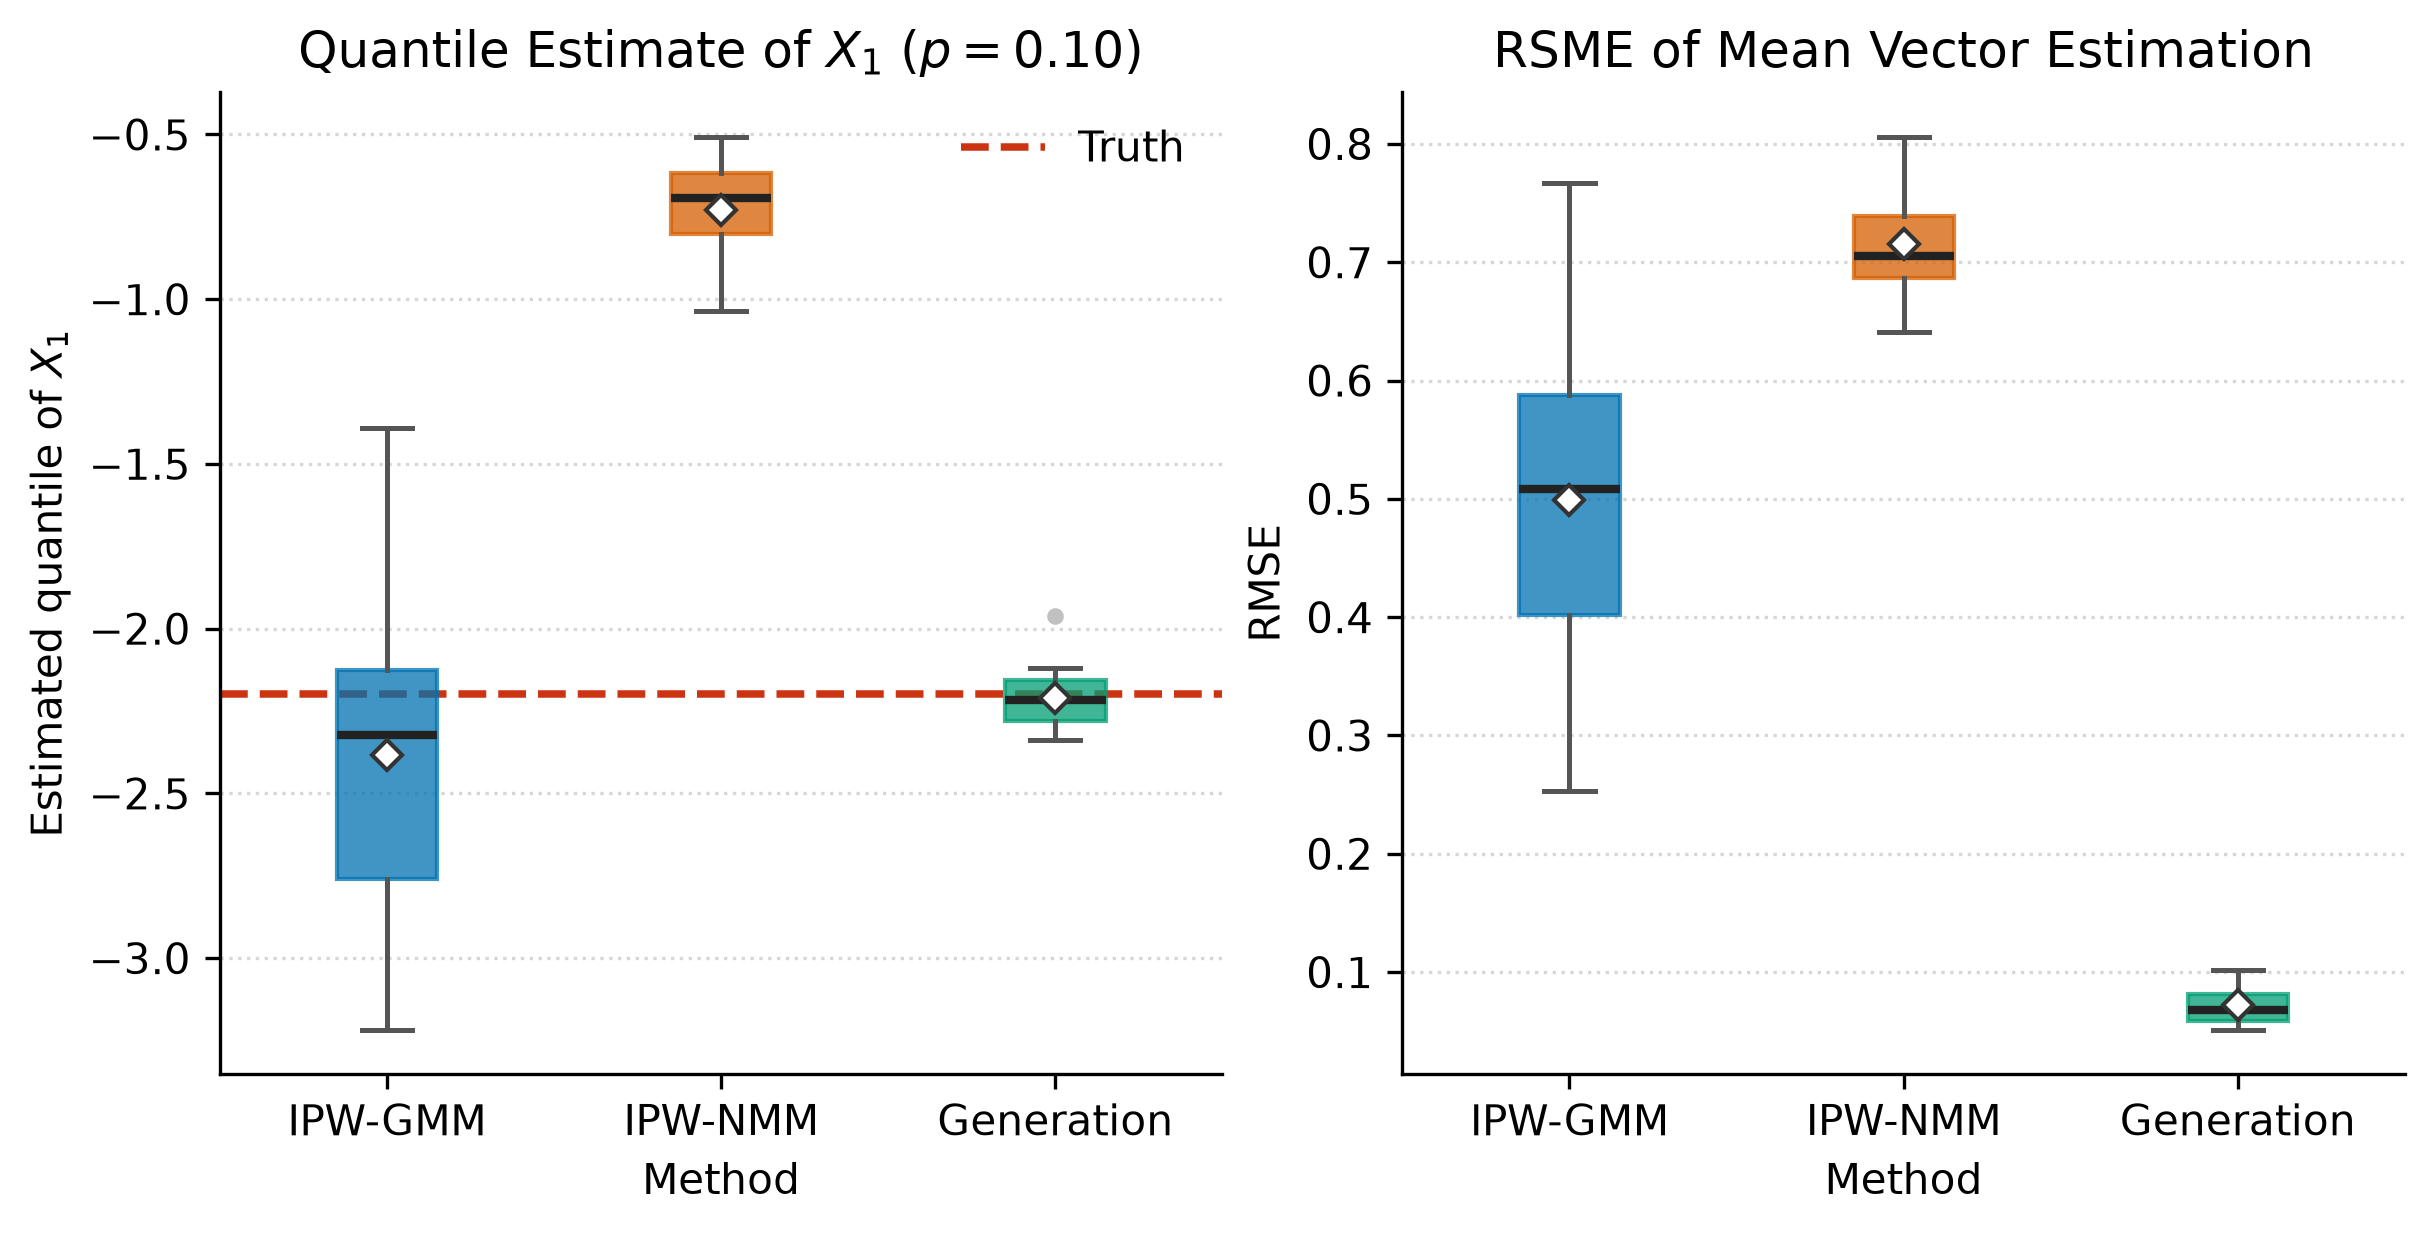
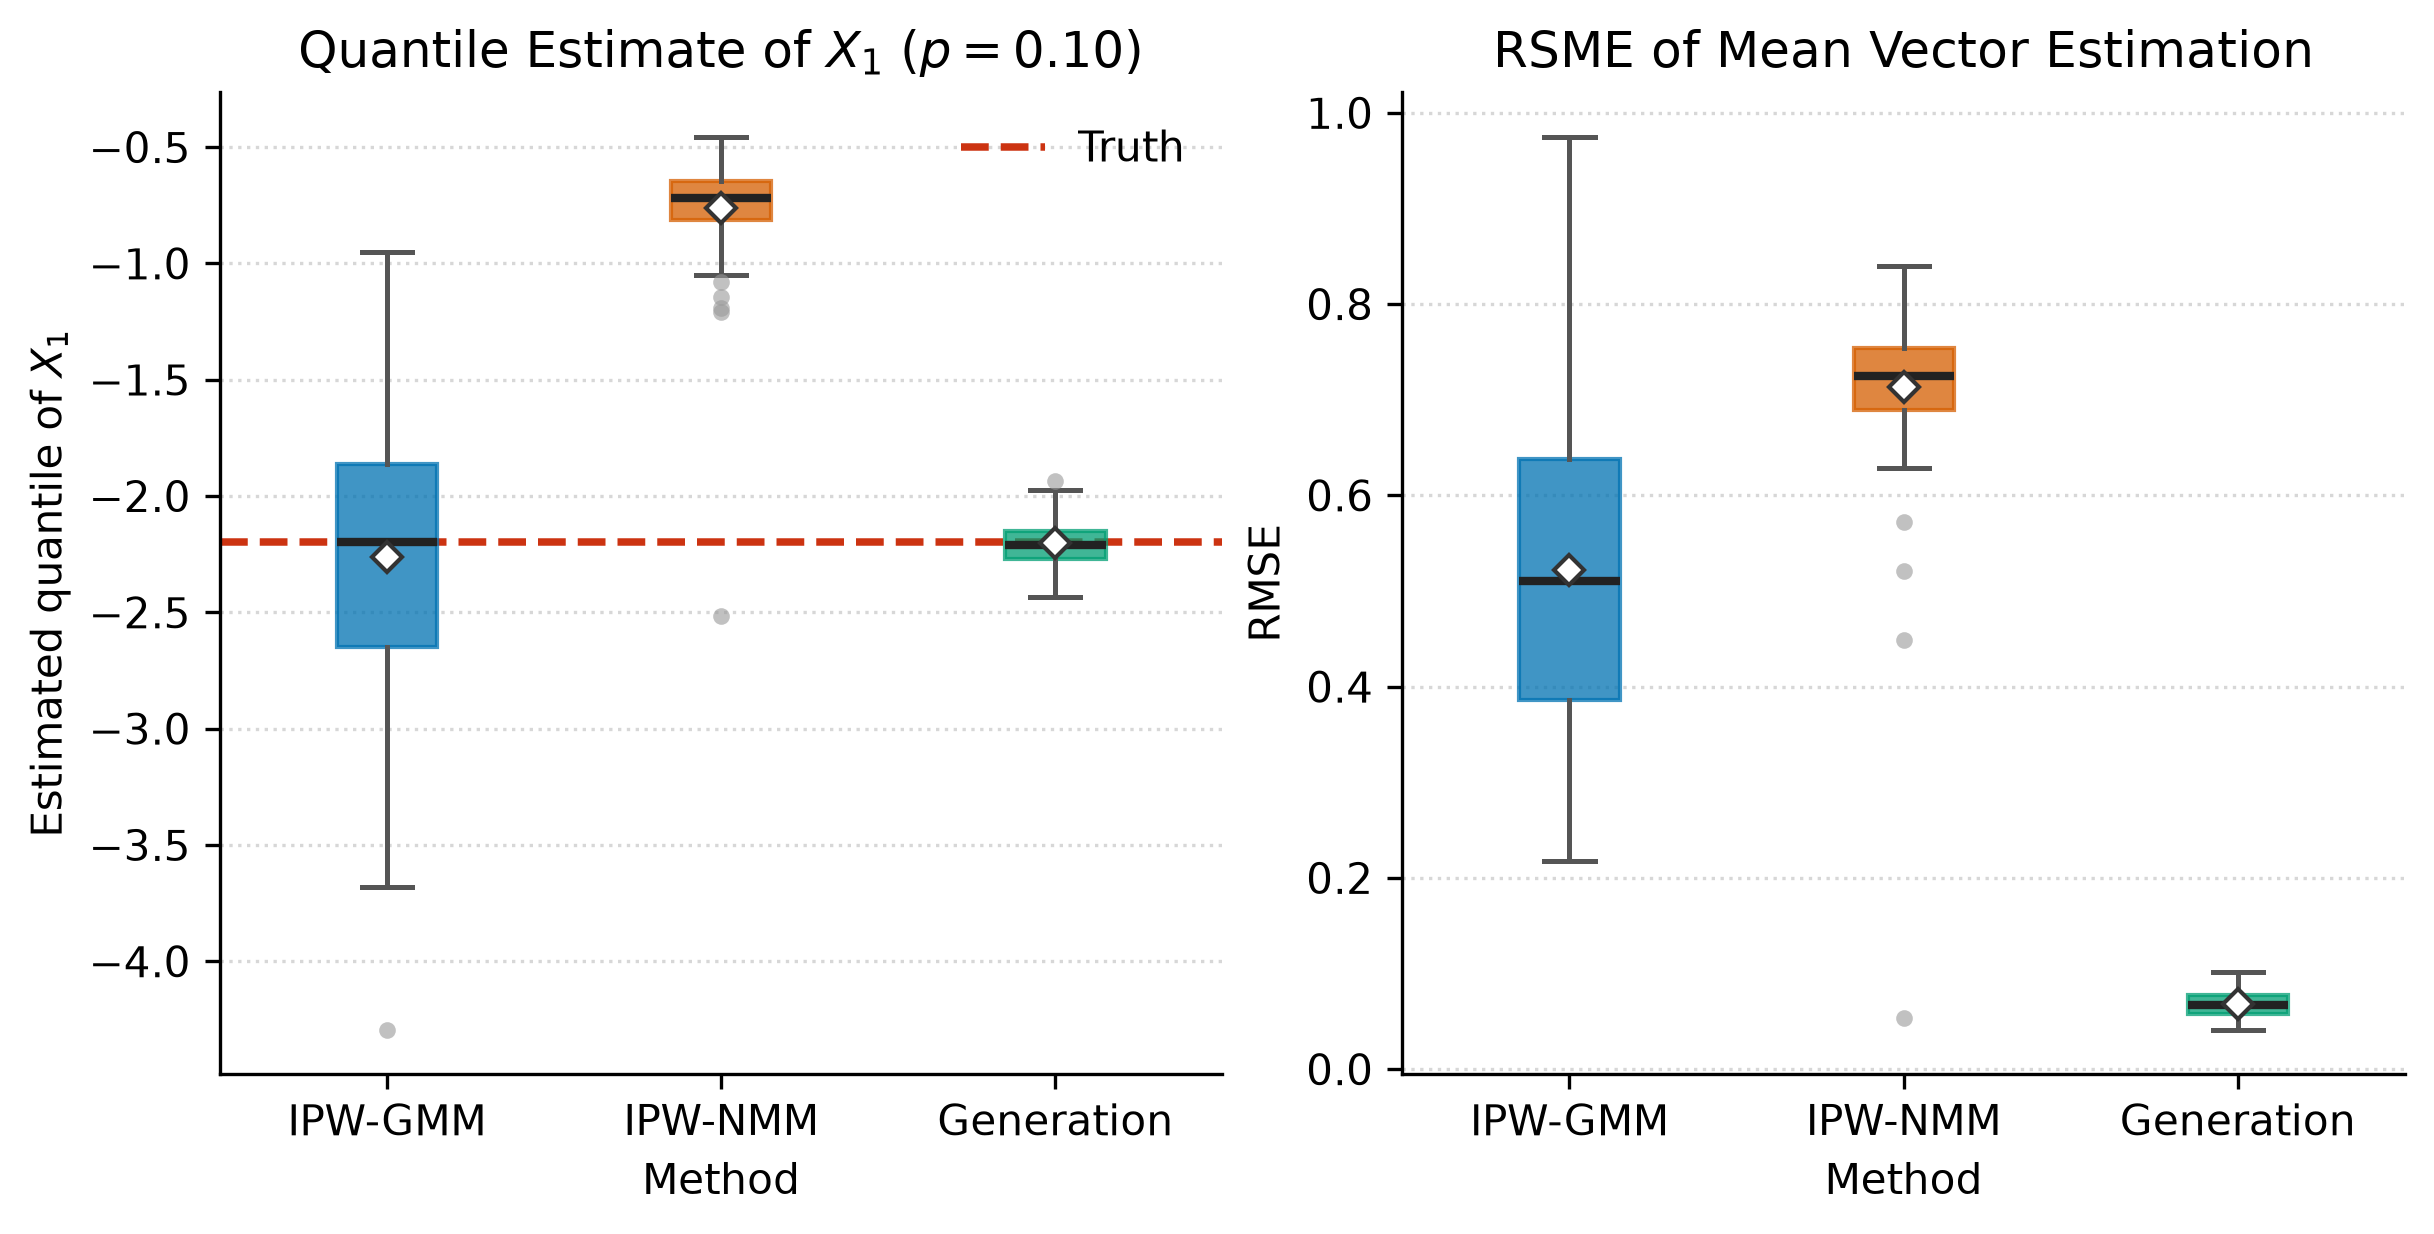
pe with new ampute

diff --git a/src/ampute_mar.py b/src/ampute_mar.py
@@ -38,7 +38,7 @@ class AmputeMAR(Converter):
             if incomplete.shape[0] > 0:
                 return incomplete
 
-    def ampute(self, X, patterns=None, prop=None, rng=None, miss_type=None):
+    def ampute(self, X, patterns=None, prop=None, rng=None, miss_type='RIGHT'):
         """
         Parameters
         ----------
